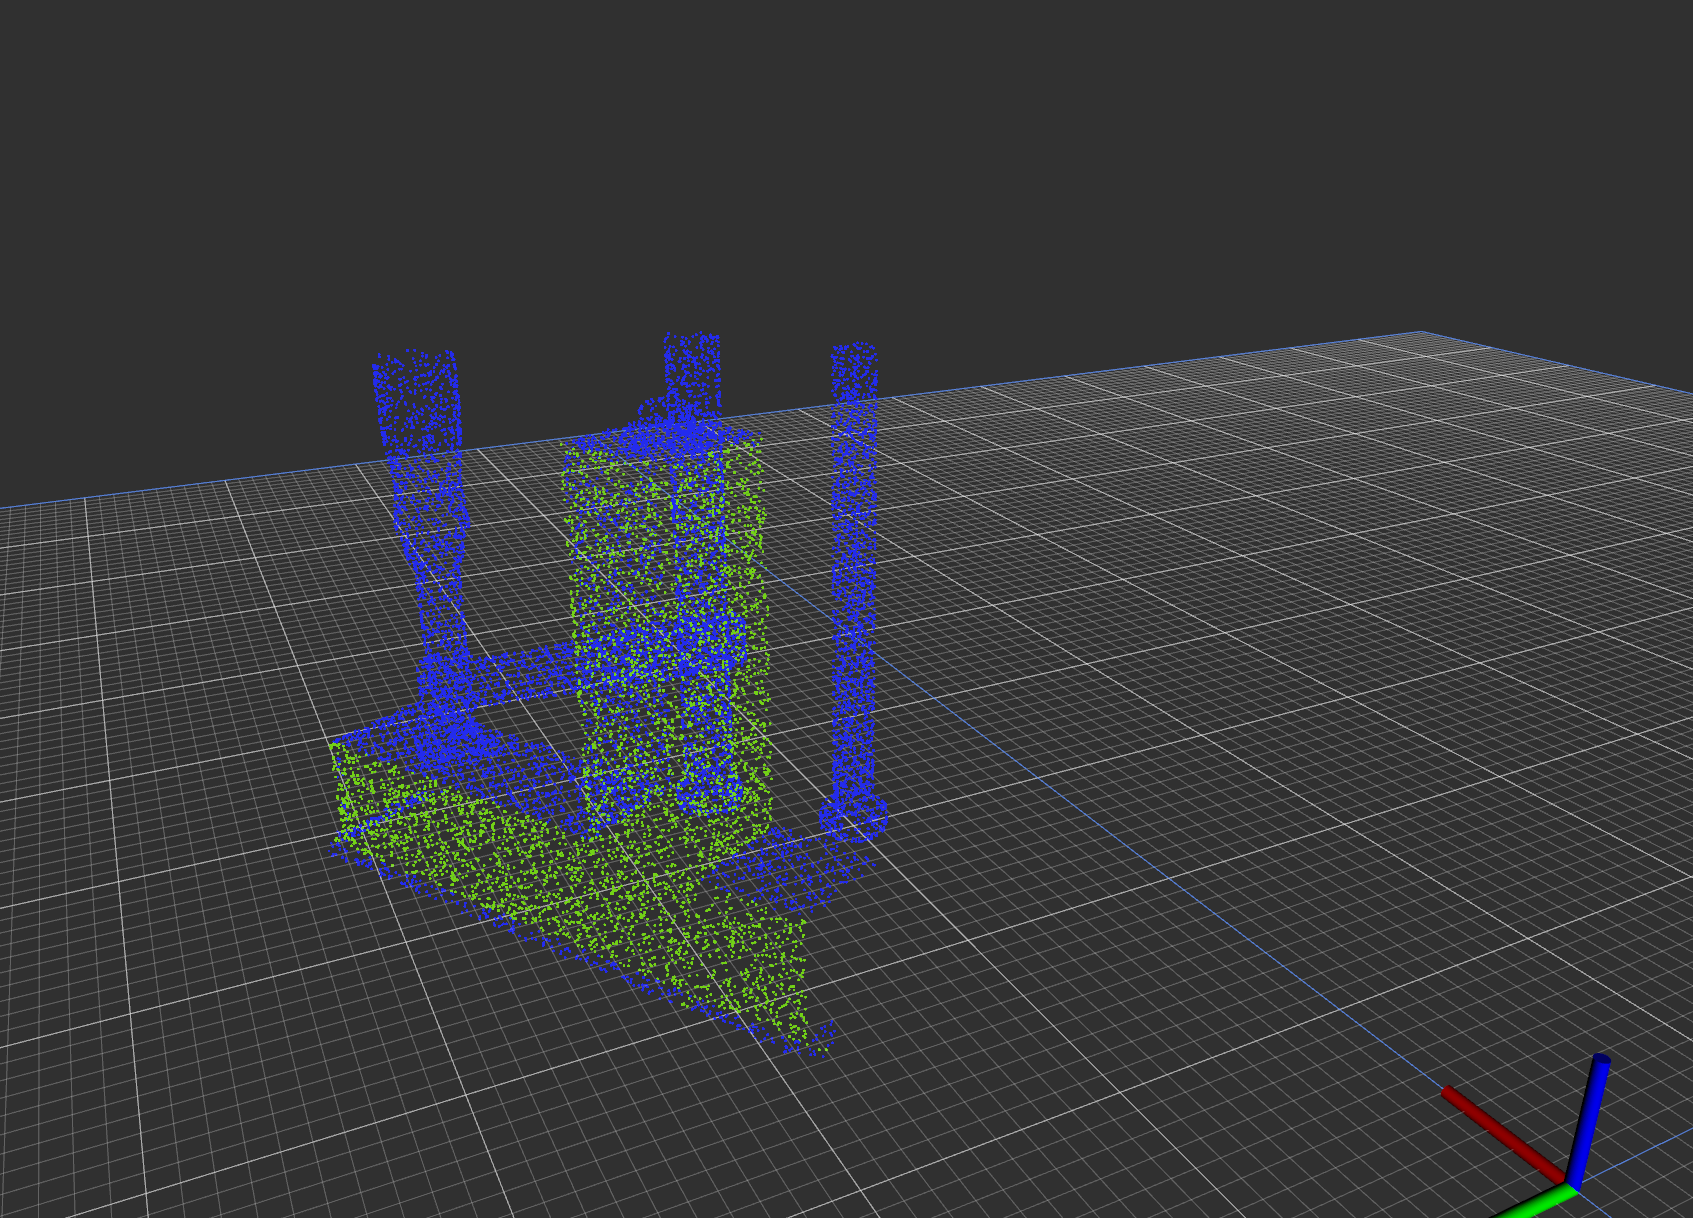
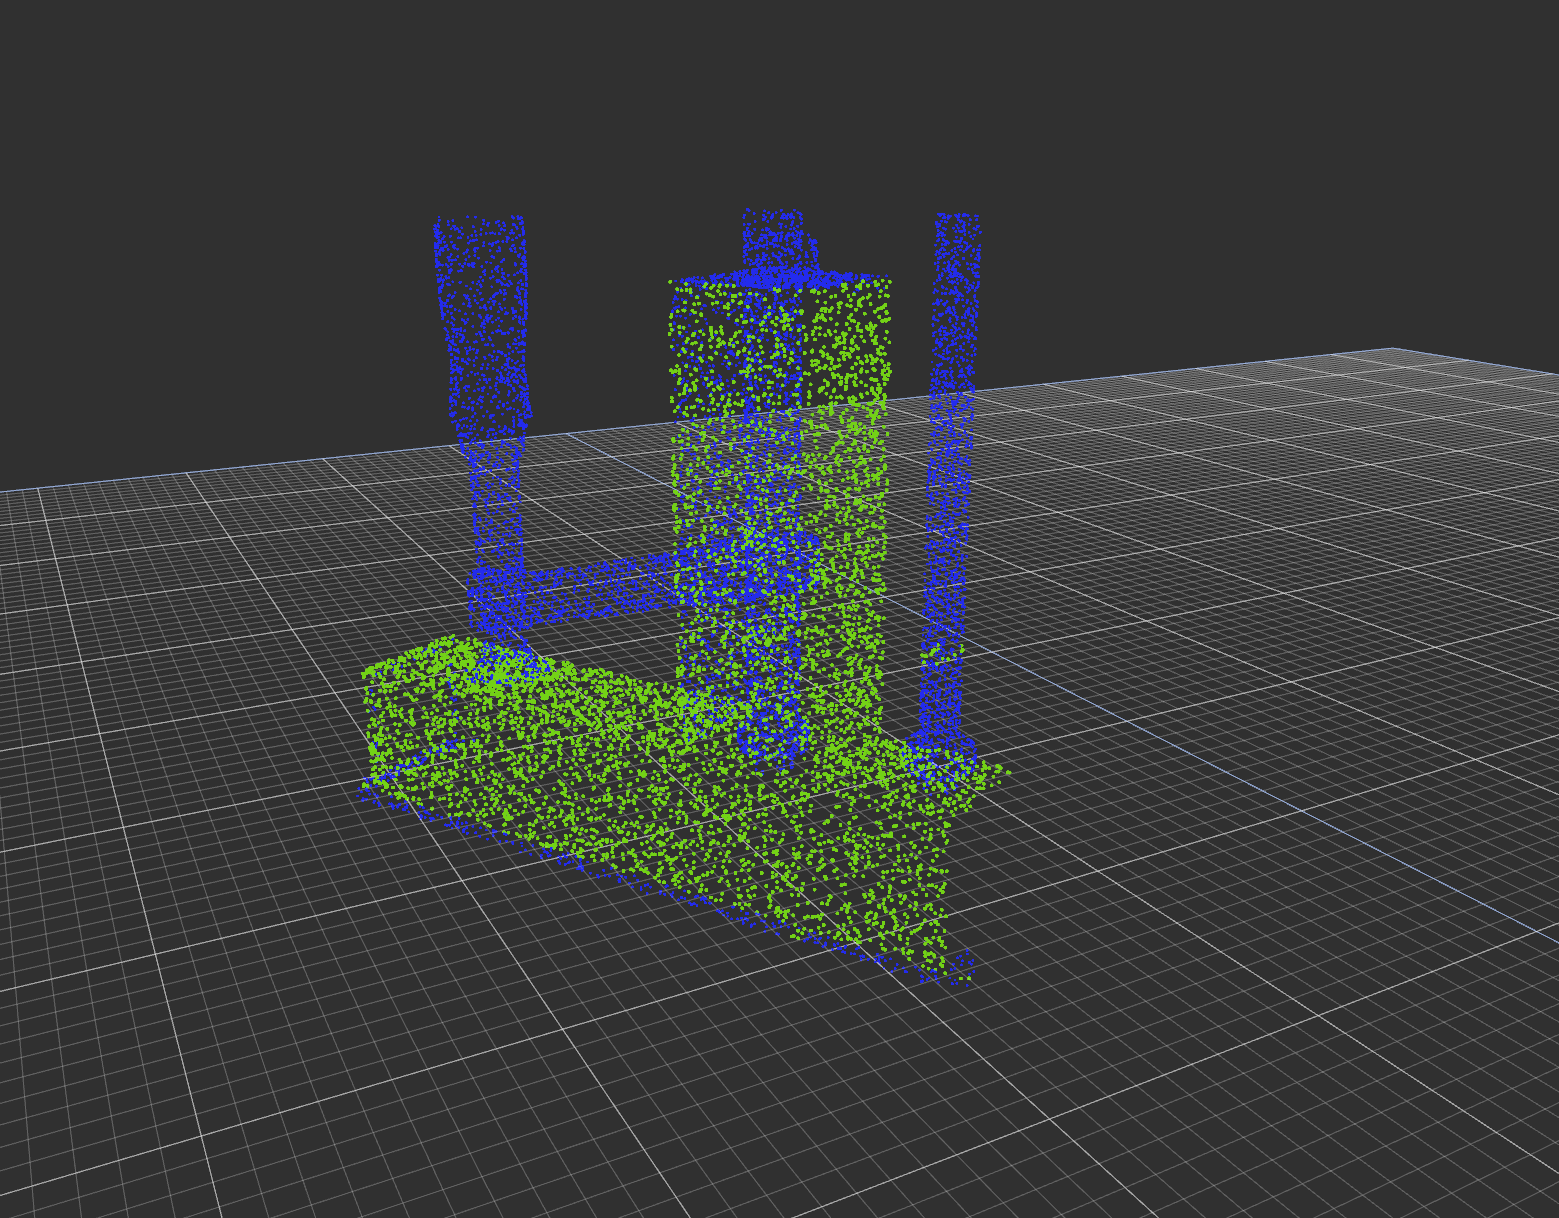
adding pngs

Changed region(s): [[0.0, 0.156, 1.0, 1.0]]

diff --git a/src/seam_detection.cpp b/src/seam_detection.cpp
@@ -128,7 +128,7 @@ void filter_cloud(PointCloud &cloud_input, PointCloud &cloud_output, double para
 }
 
 // This function takes the lidar cloud and separates or segments the cloud into different parts
-void segment_cloud(PointCloud &cloud_input, PointCloud &cloud_output1, PointCloud &cloud_output2, PointCloud &cloud_output3, const std::string& part1_type, double params[])
+void segment_cloud(PointCloud &cloud_input, PointCloud &cloud_output1, PointCloud &cloud_output2, PointCloud &cloud_output3,PointCloud &cloud_output4, const std::string& part1_type, double params[])
 {
 
   // instantiate objects needed for segment_cloud function
@@ -195,8 +195,8 @@ void segment_cloud(PointCloud &cloud_input, PointCloud &cloud_output1, PointClou
   seg.setNormalDistanceWeight (0.1);
   seg.setMethodType (pcl::SAC_RANSAC);
   seg.setMaxIterations (100);
-  //seg.setDistanceThreshold (0.003);
-  seg.setDistanceThreshold (0.03);
+  seg.setDistanceThreshold (0.003);
+  //seg.setDistanceThreshold (0.03);
   seg.setInputCloud (cloud_filtered1);
   seg.setInputNormals (cloud_normals1);
 
@@ -216,12 +216,12 @@ void segment_cloud(PointCloud &cloud_input, PointCloud &cloud_output1, PointClou
   
   //Apply Z Filter
 
-  pcl::PassThrough<pcl::PointXYZ> pass;
-  pass.setInputCloud(cloud_filtered2);
+  //pcl::PassThrough<pcl::PointXYZ> pass;
+  //pass.setInputCloud(cloud_filtered2);
 
-  pass.setFilterFieldName ("z");
-  pass.setFilterLimits(-0.01,0.5);
-  pass.filter (*cloud_filtered2);
+  //pass.setFilterFieldName ("z");
+  //pass.setFilterLimits(-0.01,0.5);
+  //pass.filter (*cloud_filtered2);
 
 
   std::cout << "The PointCloud representing the planar component contains: " << cloud_plane1->points.size () << " data points." << std::endl;
@@ -385,6 +385,7 @@ void segment_cloud(PointCloud &cloud_input, PointCloud &cloud_output1, PointClou
     pcl::copyPointCloud(*cloud_part1,cloud_output1);  // use second segmentation
     pcl::copyPointCloud(*cloud_plane1,cloud_output2);
     pcl::copyPointCloud(*cloud_filtered2,cloud_output3);
+    pcl::copyPointCloud(*cloud_filtered5,cloud_output4);
 
   }else if (part1_type=="generic")
   {
@@ -400,7 +401,7 @@ void segment_cloud(PointCloud &cloud_input, PointCloud &cloud_output1, PointClou
 
 
 // This function REGISTER_CLOUD_ICP finds the transform between two pointclouds using PCL::IterativeClosestPoint
-void register_cloud_icp(PointCloud &cloud_target, PointCloud &cloud_source, tf::StampedTransform &T_AB, tf::StampedTransform &T_BA, geometry_msgs::TransformStamped &msg_AB, geometry_msgs::TransformStamped &msg_BA, double params[])
+void register_cloud_icp(PointCloud &cloud_target, PointCloud &cloud_source, tf::StampedTransform &T_AB, tf::StampedTransform &T_BA, geometry_msgs::TransformStamped &msg_AB, geometry_msgs::TransformStamped &msg_BA, double params[],double e_results[],double c_offset[])
 {
  
   // make a copy of the CAD(target) cloud called 'cloud_A' 
@@ -495,6 +496,55 @@ void register_cloud_icp(PointCloud &cloud_target, PointCloud &cloud_source, tf::
   tf::transformStampedTFToMsg(T_AB,msg_AB);
   tf::transformStampedTFToMsg(T_BA,msg_BA);
 
+  std::cout<<"*************************************************************"<<endl;
+  std::cout<<"********************* Analyzing Results *********************"<<endl;
+  std::cout<<"*************************************************************"<<endl<<endl;
+  
+  double roll, pitch, yaw;
+  R_inverse.getRPY(roll, pitch, yaw);
+
+  std::cout<<"Calibration Translation:  ["<<c_offset[0]<<","
+                                          <<c_offset[1]<<","
+                                          <<c_offset[2]<<"]"<<std::endl;
+  std::cout<<"Calibration Rotation:     ["<<c_offset[3]<<","
+                                          <<c_offset[4]<<","
+                                          <<c_offset[5]<<"]"<<std::endl;
+
+
+  std::cout<<"Expected Translation: ["<<e_results[0]<<","
+                                      <<e_results[1]<<","
+                                      <<e_results[2]<<"]"<<std::endl;
+  std::cout<<"Measured Translation: ["<<T_inverse(0,3)<<","
+                                      <<T_inverse(1,3)<<","
+                                      <<T_inverse(2,3)<<"]"<<std::endl;
+  std::cout<<"Difference Translation: ["<<e_results[0]-T_inverse(0,3)<<","
+                                      <<e_results[1]-T_inverse(1,3)<<","
+                                      <<e_results[2]-T_inverse(2,3)<<"]"<<std::endl;
+ std::cout<<"Corrected Translation: ["<<T_inverse(0,3)+c_offset[0]<<","
+                                      <<T_inverse(1,3)+c_offset[1]<<","
+                                      <<T_inverse(2,3)+c_offset[2]<<"]"<<std::endl;
+ std::cout<<"Corr Diff Translation: ["<<e_results[0]-T_inverse(0,3)+c_offset[0]<<","
+                                      <<e_results[1]-T_inverse(1,3)+c_offset[1]<<","
+                                      <<e_results[2]-T_inverse(2,3)+c_offset[2]<<"]"<<std::endl;
+
+    
+  std::cout<<"Expected Rotation: [" <<e_results[3]<<","
+                                    <<e_results[4]<<","
+                                    <<e_results[5]<<"]"<<std::endl;
+  std::cout<<"Measured Rotation: [" <<roll
+                                    <<","<<pitch
+                                    <<","<<yaw<<"]"<<std::endl; 
+  std::cout<<"Difference Rotation: ["<<e_results[3]-roll
+                                    <<","<<e_results[4]-pitch
+                                    <<","<<e_results[5]-yaw<<"]"<<std::endl; 
+  std::cout<<"Corrected Rotation: ["<<roll+c_offset[3]<<","
+                                      <<pitch+c_offset[4]<<","
+                                      <<yaw+c_offset[5]<<"]"<<std::endl;
+  std::cout<<"Corr Diff Rotation: ["<<e_results[3]-roll+c_offset[3]<<","
+                                    <<e_results[3]-pitch+c_offset[4]<<","
+                                    <<e_results[3]-yaw+c_offset[5]<<"]"<<std::endl;
+
+
   std::cout << "END OF REGISTER_CLOUD_ICP FUNCTION" << std::endl;
 }
 
@@ -517,31 +567,48 @@ void combine_transformation(tf::StampedTransform &T_AB, tf::StampedTransform &T_
   tf::transformStampedTFToMsg(T_CA,msg_CA);
 
 }
-
+/*
 // this function prints the info in a TF to the console
-void analyze_results(tf::Transform &tf_in,double e_results[])
+void analyze_results(tf::Transform &tf_in,double e_results[],double c_offset[])
 {
   std::cout<<"*************************************************************"<<endl;
   std::cout<<"********************* Analyzing Results *********************"<<endl;
   std::cout<<"*************************************************************"<<endl<<endl;
-  std::cout<<"Expected Translation: ["<<e_results[0]<<","
+  
+  std::cout<<"Calibration Translation:  ["<<c_offset[0]<<","
+                                          <<c_offset[1]<<","
+                                          <<c_offset[2]<<"]"<<std::endl;
+  std::cout<<"Calibration Rotation:     ["<<c_offset[3]<<","
+                                          <<c_offset[4]<<","
+                                          <<c_offset[5]<<"]"<<std::endl;
+
+
+  std::cout<<"[Expected,Translation: ["<<e_results[0]<<","
                                       <<e_results[1]<<","
                                       <<e_results[2]<<"]"<<std::endl;
-
   std::cout<<"Measured Translation: ["<<tf_in.getOrigin().getX()<<","
                                       <<tf_in.getOrigin().getY()<<","
                                       <<tf_in.getOrigin().getZ()<<"]"<<std::endl;
+  std::cout<<"Difference Translation: ["<<e_results[0]-tf_in.getOrigin().getX()<<","
+                                      <<e_results[1]-tf_in.getOrigin().getY()<<","
+                                      <<e_results[2]-tf_in.getOrigin().getZ()<<"]"<<std::endl;
+
   
   std::cout<<"Expected Rotation: [" <<e_results[3]<<","
                                     <<e_results[4]<<","
                                     <<e_results[5]<<"]"<<std::endl;
-
   std::cout<<"Measured Rotation: [" <<tf_in.getRotation().getAxis().getX()
                                     <<","<<tf_in.getRotation().getAxis().getY()
                                     <<","<<tf_in.getRotation().getAxis().getZ()<<"]"<<std::endl; 
+  std::cout<<"Difference Rotation: [" <<e_results[3]-tf_in.getRotation().getAxis().getX()
+                                    <<","<<e_results[4]-tf_in.getRotation().getAxis().getY()
+                                    <<","<<e_results[5]-tf_in.getRotation().getAxis().getZ()<<"]"<<std::endl; 
+
+
  
   //std::cout<<"W:"<<tf_in.getRotation().getW()<<std::endl;
 }
+*/
 
 /*
 // this function prints the info in a TF to the console
@@ -609,8 +676,8 @@ int main(int argc, char** argv)
   node.getParam("part1_type", param3);
   part1_type=param3;
 
-  std::vector<double> xs, ys, zs, filts, sacs, icps, resu;
-  double filter_params[7],ransac_params[3],icp_params[4],expected_results[6];
+  std::vector<double> xs, ys, zs, filts, sacs, icps, resu, calib;
+  double filter_params[7],ransac_params[3],icp_params[4],expected_results[6],calibration_offset[6];
 
   node.getParam("seam1_xs",xs); // these arrays define x,y,z, points in the model
   node.getParam("seam1_ys",ys);
@@ -619,7 +686,9 @@ int main(int argc, char** argv)
   node.getParam("ransac_params",sacs);  // these four ICP parameters define the search
   node.getParam("icp_params",icps);  // these four ICP parameters define the search
   node.getParam("expected_results",resu);  // these four ICP parameters define the search
+  node.getParam("calibration_offset",calib);  // these four ICP parameters define the search
  
+
   // populate array with the filter parameters
   for(unsigned i=0; i < filts.size(); i++)
     filter_params[i]=filts[i]; // copy into an array to be used in register_cloud fn
@@ -631,6 +700,9 @@ int main(int argc, char** argv)
     icp_params[i]=icps[i]; // copy into an array to be used in register_cloud fn
   for(unsigned i=0; i < resu.size(); i++)
     expected_results[i]=resu[i]; // copy into an array to be used in register_cloud fn
+  for(unsigned i=0; i < calib.size(); i++)
+    calibration_offset[i]=calib[i]; // copy into an array to be used in register_cloud fn
+
 
   // setup a tf for a 'searchbox' marker so we we can see it in RVIZ - maybe someday...
   // static tf::TransformBroadcaster br_searchbox;
@@ -644,6 +716,7 @@ int main(int argc, char** argv)
   PointCloud::Ptr cloud_lidar (new pcl::PointCloud<pcl::PointXYZ>); // target cloud  // inputs to RANSAC
   PointCloud::Ptr cloud_filtered (new pcl::PointCloud<pcl::PointXYZ>); // target cloud  // inputs to RANSAC
   PointCloud::Ptr cloud_filtered2 (new pcl::PointCloud<pcl::PointXYZ>); // target cloud  // inputs to RANSAC
+  PointCloud::Ptr cloud_filtered3 (new pcl::PointCloud<pcl::PointXYZ>); // target cloud  // inputs to RANSAC
   PointCloud::Ptr cloud_cad1 (new pcl::PointCloud<pcl::PointXYZ>);  // source cloud
   PointCloud::Ptr cloud_cad2 (new pcl::PointCloud<pcl::PointXYZ>);  // source cloud intermediate
   PointCloud::Ptr cloud_cad3 (new pcl::PointCloud<pcl::PointXYZ>);  // source cloud final
@@ -722,15 +795,15 @@ int main(int argc, char** argv)
   filter_cloud(*cloud_lidar,*cloud_filtered, filter_params); 
 
   // Perform RANSAC Segmentation to separate clouds and find part of interest
-  segment_cloud(*cloud_filtered,*cloud_part1,*cloud_part2,*cloud_filtered2, part1_type, ransac_params);
+  segment_cloud(*cloud_filtered,*cloud_part1,*cloud_part2,*cloud_filtered2,*cloud_filtered3, part1_type, ransac_params);
 
   // Perform ICP Cloud Registration to find location and orientation of part of interest
-  register_cloud_icp(*cloud_cad1, *cloud_part1,*T_10, *T_01, *T_10_msg, *T_01_msg, icp_params);
+  register_cloud_icp(*cloud_cad1, *cloud_part1,*T_10, *T_01, *T_10_msg, *T_01_msg, icp_params,expected_results,calibration_offset);
 
   // now align the CAD part to using the resulting transformation
   pcl_ros::transformPointCloud(*cloud_cad1,*cloud_cad2,*T_01); // this works with 'pcl::PointCloud<pcl::PointXYZ>' and 'tf::Transform'
   
-  analyze_results(*T_01, expected_results);
+  //analyze_results(*T_01, expected_results,calibration_offset);
 
   std::cout << "Cloud aligned using resulting transformation." << std::endl;
   //tf2::doTransform(*cloud_cad1,*cloud_cad2,*T_01_msg); // I have not made this work yet...
@@ -848,7 +921,7 @@ int main(int argc, char** argv)
   ros::Publisher pub_lidar = node.advertise<PointCloud> ("/cloud_lidar", 1) ;
   ros::Publisher pub_filtered = node.advertise<PointCloud> ("/cloud_filtered", 1) ;
   ros::Publisher pub_filtered2 = node.advertise<PointCloud> ("/cloud_filtered2", 1) ;
-  //ros::Publisher pub_filtered3 = node.advertise<PointCloud> ("/cloud_filtered3", 1) ;
+  ros::Publisher pub_filtered3 = node.advertise<PointCloud> ("/cloud_filtered3", 1) ;
   ros::Publisher pub_cad1 = node.advertise<PointCloud> ("/cloud_cad1", 1) ;
   ros::Publisher pub_cad2 = node.advertise<PointCloud> ("/cloud_cad2", 1) ;
   ros::Publisher pub_cad3 = node.advertise<PointCloud> ("/cloud_cad3", 1) ;
@@ -858,7 +931,7 @@ int main(int argc, char** argv)
   cloud_lidar->header.frame_id = "base_link";
   cloud_filtered->header.frame_id = "base_link";
   cloud_filtered2->header.frame_id = "base_link";
-  //cloud_filtered3->header.frame_id = "base_link";
+  cloud_filtered3->header.frame_id = "base_link";
   cloud_cad1->header.frame_id = "base_link";
   cloud_cad2->header.frame_id = "base_link";
   cloud_cad3->header.frame_id = "base_link";
@@ -886,7 +959,7 @@ int main(int argc, char** argv)
       pub_lidar.publish(cloud_lidar);
       pub_filtered.publish(cloud_filtered);
       pub_filtered2.publish(cloud_filtered2);
-      //pub_filtered3.publish(cloud_filtered3);
+      pub_filtered3.publish(cloud_filtered3);
       pub_cad1.publish(cloud_cad1);
       pub_cad2.publish(cloud_cad2);
       pub_cad3.publish(cloud_cad3);
